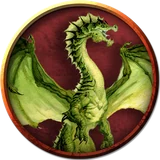
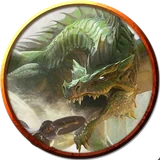
Fichas do 5etools para as criaturas da aventura que a galeria não tinha
A galeria do imgur só tem o livro dos monstros. As criaturas próprias das
aventuras vêm agora do espelho do 5etools no GitHub (bestiary/tokens/<livro>/),
no mesmo anel dourado da galeria:
- Mormesk (Mormesk the Wraith) e o dragão da Árvore Trovão (Venomfang), da
  Mina Perdida, no lugar do wraith e do dragão verde jovem genéricos;
- a vassoura animada (Broom of Animated Attack), que não tinha ficha nenhuma,
  e Rose e Thorn (Rosavalda e Thornboldt Durst), do Curse of Strahd, no lugar
  do fantasma genérico.

Rose e Thorn são o mesmo bloco (fantasma de criança) com o nome dado pela
cena: art/fichas-de-criatura.js escolhe a ficha pelo nome. O zumbi das cinzas
também está na lista, mas a imagem do 5etools é a mesma do "Zombie" da galeria.

baixar-fichas.py lê a segunda lista (src/dev/fichas-5etools.json), que vale
sobre a galeria; fichas-proprias.json continua valendo sobre as duas. Toda
criatura do jogo tem ficha agora (78). testes-cenas 55/55.

diff --git a/src/art/fichas-de-criatura.js b/src/art/fichas-de-criatura.js
@@ -1,13 +1,16 @@
 // AS FICHAS DE CRIATURA: o retrato redondo, com anel, que o tabuleiro de cima desenha no lugar do retrato em pixel.
 //
-// Vêm da galeria "D&D Monster Tokens" do imgur (ver `src/dev/fichas-imgur.json`, que diz qual imagem é de qual
-// criatura, e `src/dev/baixar-fichas.py`, que baixa e reduz a 160 px em `public/fichas/<id>.webp`).
+// Vêm da galeria "D&D Monster Tokens" do imgur (`src/dev/fichas-imgur.json`), do espelho do 5etools para as criaturas
+// da aventura que a galeria não tem (`src/dev/fichas-5etools.json`) e da arte do próprio personagem montada no mesmo
+// anel (`src/dev/fichas-proprias.json`). `src/dev/baixar-fichas.py` e `fichas-proprias.py` as põem em
+// `public/fichas/<id>.webp`.
 //
 // QUEM GANHA FICHA: a criatura pelo bloco (`defId`), e a pessoa com nome (`npcId`) só se estiver na lista — Klarg,
 // Yeemik, Nezznar, Agatha. O morador com retrato próprio (Sildar, Toblen, Linene) continua com o retrato dele, mesmo
 // usando um bloco que tem ficha (o do Sildar é o de cavaleiro). O herói, sempre o retrato.
 
 const COM_FICHA = new Set([
+  'vassouraAnimada', 'rose', 'thorn',
   'acolito', 'agatha', 'aranhaGigante', 'aranhaLoboGigante', 'arbustoErrante', 'armaduraAnimada', 'bandido',
   'bandidoBesteiro', 'bandidoMachadeiro', 'batedor', 'brughor', 'bugbear', 'cabraGigante', 'cajavidro',
   'capitaoBandido', 'cavaleiro', 'caveiraCandente', 'corujaUrso', 'cultista', 'doppelganger', 'dragaoVerdeJovem',
@@ -20,10 +23,15 @@ const COM_FICHA = new Set([
   'zumbi', 'zumbiDasCinzas',
 ]);
 
+// O MESMO BLOCO, PESSOAS DIFERENTES: a Casa da Morte faz Rose e Thorn do bloco de fantasma de criança e dá o nome
+// depois (`casadamorte-alto-cena.js`). O nome decide a ficha.
+const POR_NOME = { fantasmaDeCrianca: { Rose: 'rose', Thorn: 'thorn' } };
+
 /** O endereço da ficha do combatente, ou `null` se ele fica com o retrato em pixel. */
 export function fichaDe(c) {
   if (!c || c.side === 'party') return null;
-  const id = c.npcId ? (COM_FICHA.has(c.npcId) ? c.npcId : null) : (COM_FICHA.has(c.defId) ? c.defId : null);
+  const pessoa = POR_NOME[c.defId]?.[c.name];
+  const id = pessoa ?? (c.npcId ? (COM_FICHA.has(c.npcId) ? c.npcId : null) : (COM_FICHA.has(c.defId) ? c.defId : null));
   return id ? `/fichas/${id}.webp` : null;
 }
 

diff --git a/src/dev/baixar-fichas.py b/src/dev/baixar-fichas.py
@@ -1,4 +1,4 @@
-"""Baixa as fichas de criatura da galeria do imgur e as converte para o jogo.
+"""Baixa as fichas de criatura (a galeria do imgur e o 5etools) e as converte para o jogo.
 
     python src/dev/baixar-fichas.py          # seco: mostra o plano (quantas, quanto pesa)
     python src/dev/baixar-fichas.py --go     # baixa e converte
@@ -7,7 +7,13 @@ A lista é `src/dev/fichas-imgur.json` (id da criatura no jogo -> id da imagem n
 `_referencias/fichas-imgur/<id>.png`, sem mexer; o jogo recebe `public/fichas/<criatura>.webp`, reduzido a 160 px
 (a ficha no tabuleiro tem ~54 px de diâmetro na abertura e 64 no zoom máximo: 160 sobra para o retrato do HUD e
 para tela de alta densidade) e com o alfa preservado, para o anel ficar redondo sobre o mapa.
+
+A segunda lista é `src/dev/fichas-5etools.json` (id -> [livro, arquivo] em `bestiary/tokens/` do espelho do 5etools
+no GitHub): as fichas das criaturas DA AVENTURA que a galeria não tem — Mormesk, o zumbi das cinzas, Venomfang,
+Rose e Thorn, a vassoura. É o mesmo anel dourado. Ela vale sobre a da galeria, e `fichas-proprias.json` (a arte do
+personagem montada no anel, `fichas-proprias.py`) vale sobre as duas.
 """
+import urllib.parse
 import io
 import json
 import os
@@ -19,6 +25,9 @@ from PIL import Image
 RAIZ = os.path.dirname(os.path.dirname(os.path.dirname(os.path.abspath(__file__))))
 LISTA = os.path.join(RAIZ, 'src', 'dev', 'fichas-imgur.json')
 CRU = os.path.join(RAIZ, '_referencias', 'fichas-imgur')
+LISTA_5E = os.path.join(RAIZ, 'src', 'dev', 'fichas-5etools.json')
+CRU_5E = os.path.join(RAIZ, '_referencias', 'fichas-5etools')
+BASE_5E = 'https://raw.githubusercontent.com/5etools-mirror-3/5etools-2014-img/main/bestiary/tokens'
 SAIDA = os.path.join(RAIZ, 'public', 'fichas')
 LADO = 160
 
@@ -36,6 +45,22 @@ def baixar(img_id):
     return destino, True
 
 
+def converter(origem, destino):
+    """A ficha no tamanho do jogo: recortada pelo próprio anel e reduzida a 160 px. Devolve o tamanho do arquivo."""
+    im = Image.open(origem).convert('RGBA')
+    # A galeria desenha a ficha de criatura Miúda menor, no meio da tela (rato, morcego, estirge, caveira): o
+    # anel ocupava 40% da imagem e a ficha saía minúscula na casa. O tamanho na casa é o motor que decide pela
+    # pegada; aqui recorta-se pelo próprio anel (o que não é transparente) e a ficha enche a imagem.
+    caixa = im.getchannel('A').point(lambda a: 255 if a > 16 else 0).getbbox()
+    if caixa:
+        im = im.crop(caixa)
+    lado = max(im.size)
+    quadrado = Image.new('RGBA', (lado, lado), (0, 0, 0, 0))
+    quadrado.paste(im, ((lado - im.width) // 2, (lado - im.height) // 2))
+    quadrado.resize((LADO, LADO), Image.LANCZOS).save(destino, 'WEBP', quality=88, method=6)
+    return os.path.getsize(destino)
+
+
 def main():
     lista = {k: v for k, v in json.load(open(LISTA, encoding='utf-8')).items() if not k.startswith('_')}
     ids = sorted({v[0] for v in lista.values()})
@@ -51,25 +76,26 @@ def main():
         baixadas += novo
     # os personagens com nome que têm a arte deles (`fichas-proprias.py`) não levam a ficha genérica por cima
     proprias = {k for k in json.load(open(os.path.join(RAIZ, 'src', 'dev', 'fichas-proprias.json'), encoding='utf-8')) if not k.startswith('_')}
+    do5e = {k: v for k, v in json.load(open(LISTA_5E, encoding='utf-8')).items() if not k.startswith('_')}
+    os.makedirs(CRU_5E, exist_ok=True)
+    for criatura, (livro, arquivo) in do5e.items():
+        destino = os.path.join(CRU_5E, f'{criatura}.webp')
+        if os.path.exists(destino):
+            continue
+        with urllib.request.urlopen(f'{BASE_5E}/{livro}/{urllib.parse.quote(arquivo)}', timeout=30) as r:
+            dados = r.read()
+        Image.open(io.BytesIO(dados)).verify()
+        with open(destino, 'wb') as f:
+            f.write(dados)
+        baixadas += 1
+    fontes = {criatura: os.path.join(CRU, f'{img_id}.png') for criatura, (img_id, _) in lista.items()}
+    fontes.update({criatura: os.path.join(CRU_5E, f'{criatura}.webp') for criatura in do5e})
     total = 0
-    for criatura, (img_id, nome) in sorted(lista.items()):
+    for criatura, origem in sorted(fontes.items()):
         if criatura in proprias and os.path.exists(os.path.join(SAIDA, f'{criatura}.webp')):
             continue
-        im = Image.open(os.path.join(CRU, f'{img_id}.png')).convert('RGBA')
-        # A galeria desenha a ficha de criatura Miúda menor, no meio da tela (rato, morcego, estirge, caveira): o
-        # anel ocupava 40% da imagem e a ficha saía minúscula na casa. O tamanho na casa é o motor que decide pela
-        # pegada; aqui recorta-se pelo próprio anel (o que não é transparente) e a ficha enche a imagem.
-        caixa = im.getchannel('A').point(lambda a: 255 if a > 16 else 0).getbbox()
-        if caixa:
-            im = im.crop(caixa)
-        lado = max(im.size)
-        quadrado = Image.new('RGBA', (lado, lado), (0, 0, 0, 0))
-        quadrado.paste(im, ((lado - im.width) // 2, (lado - im.height) // 2))
-        im = quadrado.resize((LADO, LADO), Image.LANCZOS)
-        caminho = os.path.join(SAIDA, f'{criatura}.webp')
-        im.save(caminho, 'WEBP', quality=88, method=6)
-        total += os.path.getsize(caminho)
-    print(f'baixadas {baixadas} (as outras já estavam em _referencias), {len(lista)} fichas em public/fichas, {total / 1024:.0f} KB no total')
+        total += converter(origem, os.path.join(SAIDA, f'{criatura}.webp'))
+    print(f'baixadas {baixadas} (as outras já estavam em _referencias), {len(fontes)} fichas em public/fichas, {total / 1024:.0f} KB no total')
 
 
 if __name__ == '__main__':
